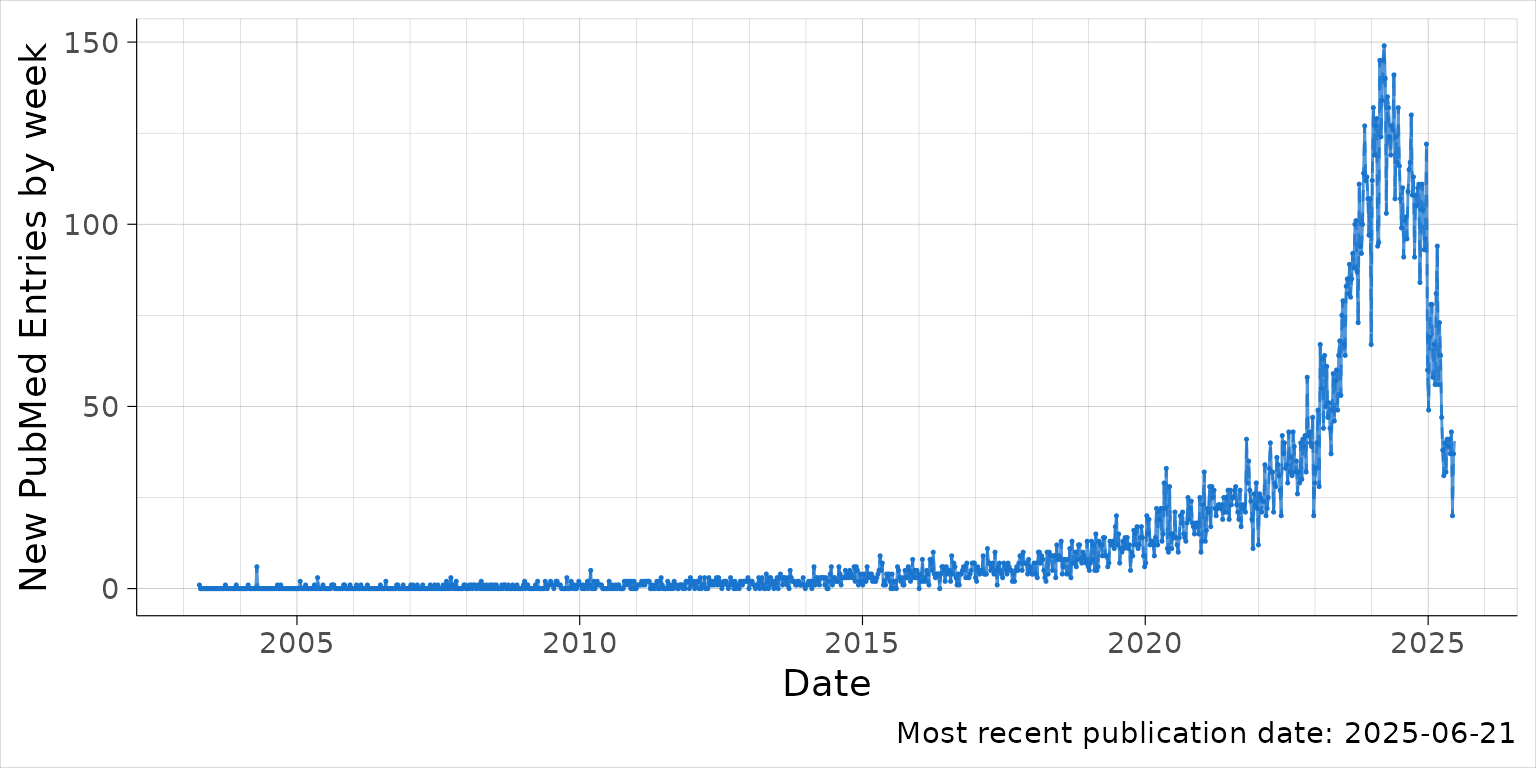
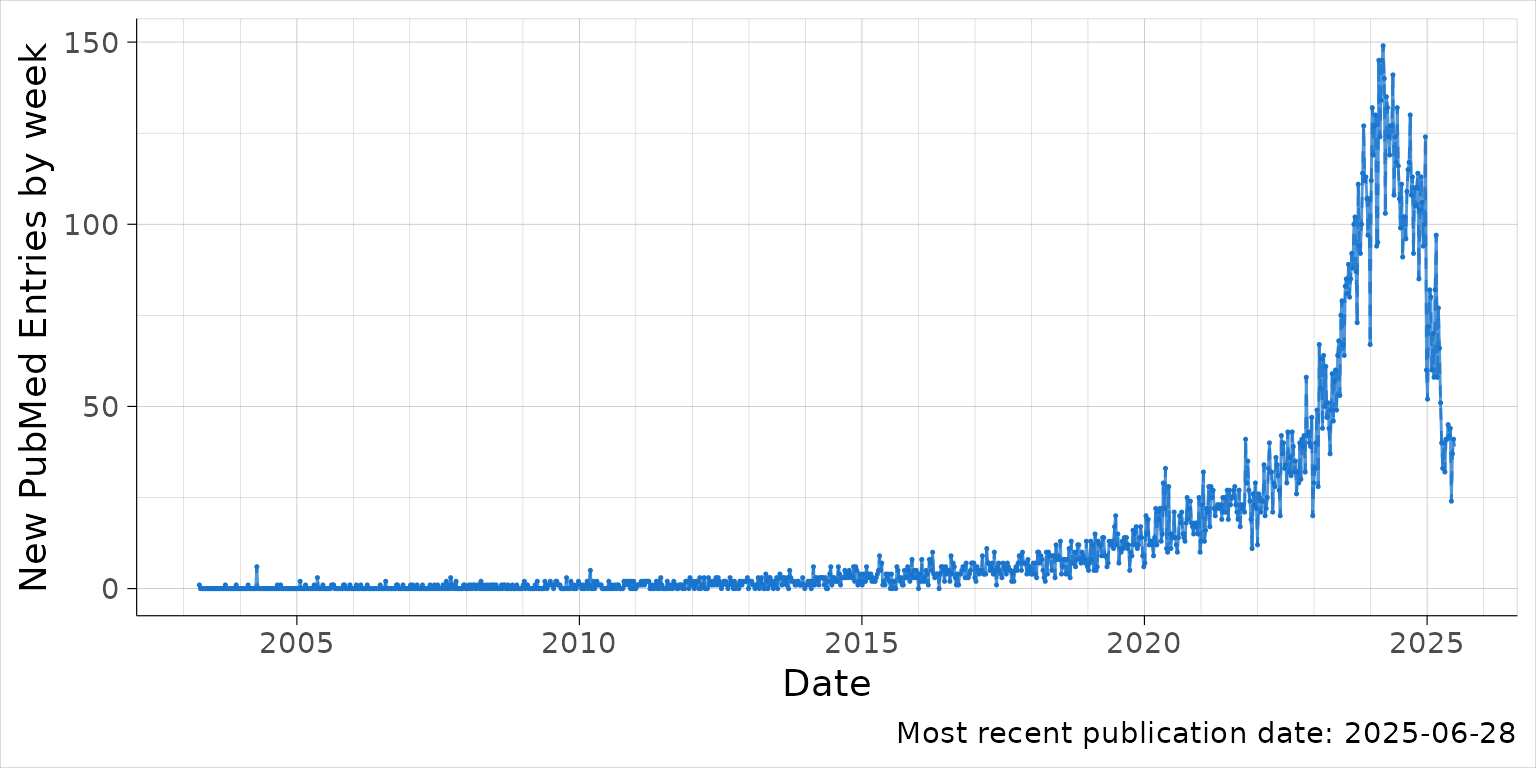
Deploying to gh-pages from @ explodecomputer/PubmedPlot@068eacdf5acdc66ea1c8a3d5640505ac4a8cb4ee 🚀

diff --git a/articles/mr.html b/articles/mr.html
@@ -183,7 +183,7 @@
 <span><span class="co">#&gt; Fetching records 2501 to 2979 </span></span>
 <span><span class="co">#&gt; Searching for year: 2024 </span></span>
 <span><span class="co">#&gt; Search term: "Mendelian randomisation" [tiab] OR "Mendelian randomization" [tiab] AND ("2024/01/01"[dp] : "2024/12/31"[dp]) </span></span>
-<span><span class="co">#&gt; Found 6434 articles matching the search term.</span></span>
+<span><span class="co">#&gt; Found 6435 articles matching the search term.</span></span>
 <span><span class="co">#&gt; Fetching records 1 to 500 </span></span>
 <span><span class="co">#&gt; Fetching records 501 to 1000 </span></span>
 <span><span class="co">#&gt; Fetching records 1001 to 1500 </span></span>
@@ -196,17 +196,18 @@
 <span><span class="co">#&gt; Fetching records 4501 to 5000 </span></span>
 <span><span class="co">#&gt; Fetching records 5001 to 5500 </span></span>
 <span><span class="co">#&gt; Fetching records 5501 to 6000 </span></span>
-<span><span class="co">#&gt; Fetching records 6001 to 6434 </span></span>
+<span><span class="co">#&gt; Fetching records 6001 to 6435 </span></span>
 <span><span class="co">#&gt; Searching for year: 2025 </span></span>
 <span><span class="co">#&gt; Search term: "Mendelian randomisation" [tiab] OR "Mendelian randomization" [tiab] AND ("2025/01/01"[dp] : "2025/12/31"[dp]) </span></span>
-<span><span class="co">#&gt; Found 3478 articles matching the search term.</span></span>
+<span><span class="co">#&gt; Found 3596 articles matching the search term.</span></span>
 <span><span class="co">#&gt; Fetching records 1 to 500 </span></span>
 <span><span class="co">#&gt; Fetching records 501 to 1000 </span></span>
 <span><span class="co">#&gt; Fetching records 1001 to 1500 </span></span>
 <span><span class="co">#&gt; Fetching records 1501 to 2000 </span></span>
 <span><span class="co">#&gt; Fetching records 2001 to 2500 </span></span>
 <span><span class="co">#&gt; Fetching records 2501 to 3000 </span></span>
-<span><span class="co">#&gt; Fetching records 3001 to 3478</span></span>
+<span><span class="co">#&gt; Fetching records 3001 to 3500 </span></span>
+<span><span class="co">#&gt; Fetching records 3501 to 3596</span></span>
 <span><span class="co"># write_json(a, "pubmed_abstracts.json", pretty=TRUE)</span></span>
 <span><span class="va">b</span> <span class="op">&lt;-</span> <span class="fu"><a href="../reference/group_by_time_interval.html">group_by_time_interval</a></span><span class="op">(</span><span class="va">a</span><span class="op">)</span></span>
 <span><span class="va">p</span> <span class="op">&lt;-</span> <span class="fu"><a href="../reference/plot_time_interval.html">plot_time_interval</a></span><span class="op">(</span><span class="va">b</span><span class="op">)</span></span></code></pre></div>
